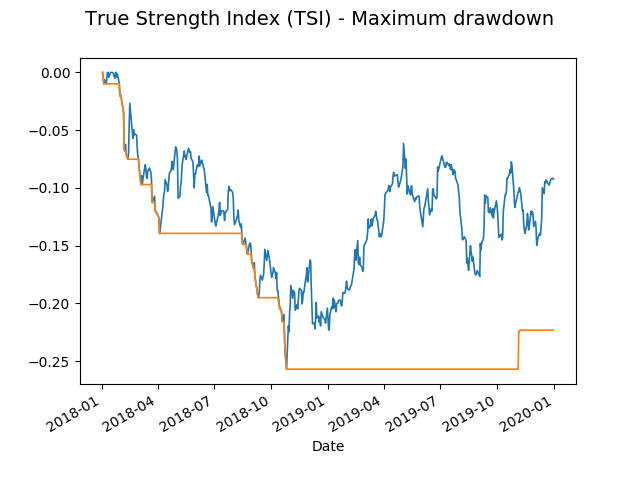
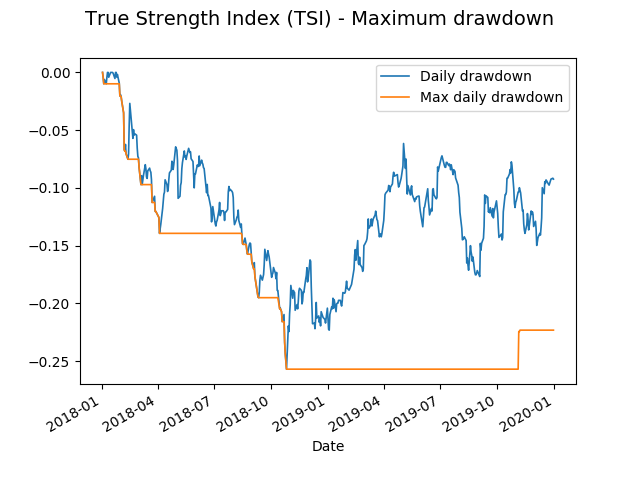
Add legend to figures

Changed region(s): [[0.6562, 0.125, 0.9062, 0.2188], [0.5938, 0.1562, 0.625, 0.2188]]

diff --git a/code/backtest.py b/code/backtest.py
@@ -37,7 +37,8 @@ def Backtest(ticker, signals, df, initial_capital=float(100000.0)):
     ax1 = fig.add_subplot(111, ylabel='Portfolio value in $')
 
     # Plot the equity curve in dollars
-    portfolio['total'].plot(ax=ax1, lw=1.2)
+    portfolio['total'].plot(ax=ax1, lw=1.2, label='Total value (including cash)')
+    plt.legend()
 
     ax1.plot(portfolio.loc[signals.positions == 1.0].index, 
             portfolio.total[signals.positions == 1.0],

diff --git a/code/strategy/cci_overbought_oversold.py b/code/strategy/cci_overbought_oversold.py
@@ -36,7 +36,8 @@ class cciOverboughtOversold(Indicator):
         ax1 = fig.add_subplot(111,  ylabel='Value')
 
         # Plot CCI
-        self.signals['CCI'].plot(ax=ax1, lw=1.2)
+        self.signals['CCI'].plot(ax=ax1, lw=1.2, label='Commodity Channel Index (CCI)')
+        plt.legend()
 
         # Plot the buy signals
         ax1.plot(self.signals.loc[self.signals.positions == 1.0].index,

diff --git a/code/strategy/indicator.py b/code/strategy/indicator.py
@@ -15,7 +15,8 @@ class Indicator:
         ax1 = fig.add_subplot(111,  ylabel='Price in $')
 
         # Plot the closing price
-        self.df['Close'].plot(ax=ax1, lw=1.2)
+        self.df['Close'].plot(ax=ax1, lw=1.2, label='Closing price')
+        plt.legend()
 
         # Plot the buy signals
         ax1.plot(signals.loc[signals.positions == 1.0].index, 

diff --git a/code/evaluate.py b/code/evaluate.py
@@ -32,8 +32,9 @@ def MaxDrawdown(df, window=252):
     fig = plt.figure()
 
     # Plot the results
-    daily_drawdown.plot(lw=1.2)
-    max_daily_drawdown.plot(lw=1.2)
+    daily_drawdown.plot(lw=1.2, label='Daily drawdown')
+    max_daily_drawdown.plot(lw=1.2, label='Max daily drawdown')
+    plt.legend()
 
     return fig
 

diff --git a/code/strategy/relative_strength_index.py b/code/strategy/relative_strength_index.py
@@ -59,7 +59,8 @@ class rsi(Indicator):
         
         # Plot graph
         fig = plt.figure()
-        self.RSI.plot(lw=1.2)
+        self.RSI.plot(lw=1.2, label='Relative Strength Index (RSI)')
+        plt.legend()
 
         return fig
 

diff --git a/code/strategy/rate_of_change.py b/code/strategy/rate_of_change.py
@@ -35,7 +35,8 @@ class roc(Indicator):
 
         # Plot graph
         fig = plt.figure()
-        self.df['ROC'].plot(lw=1.2)
+        self.df['ROC'].plot(lw=1.2, label='Rate of Change (ROC)')
+        plt.legend()
 
         return fig
 
